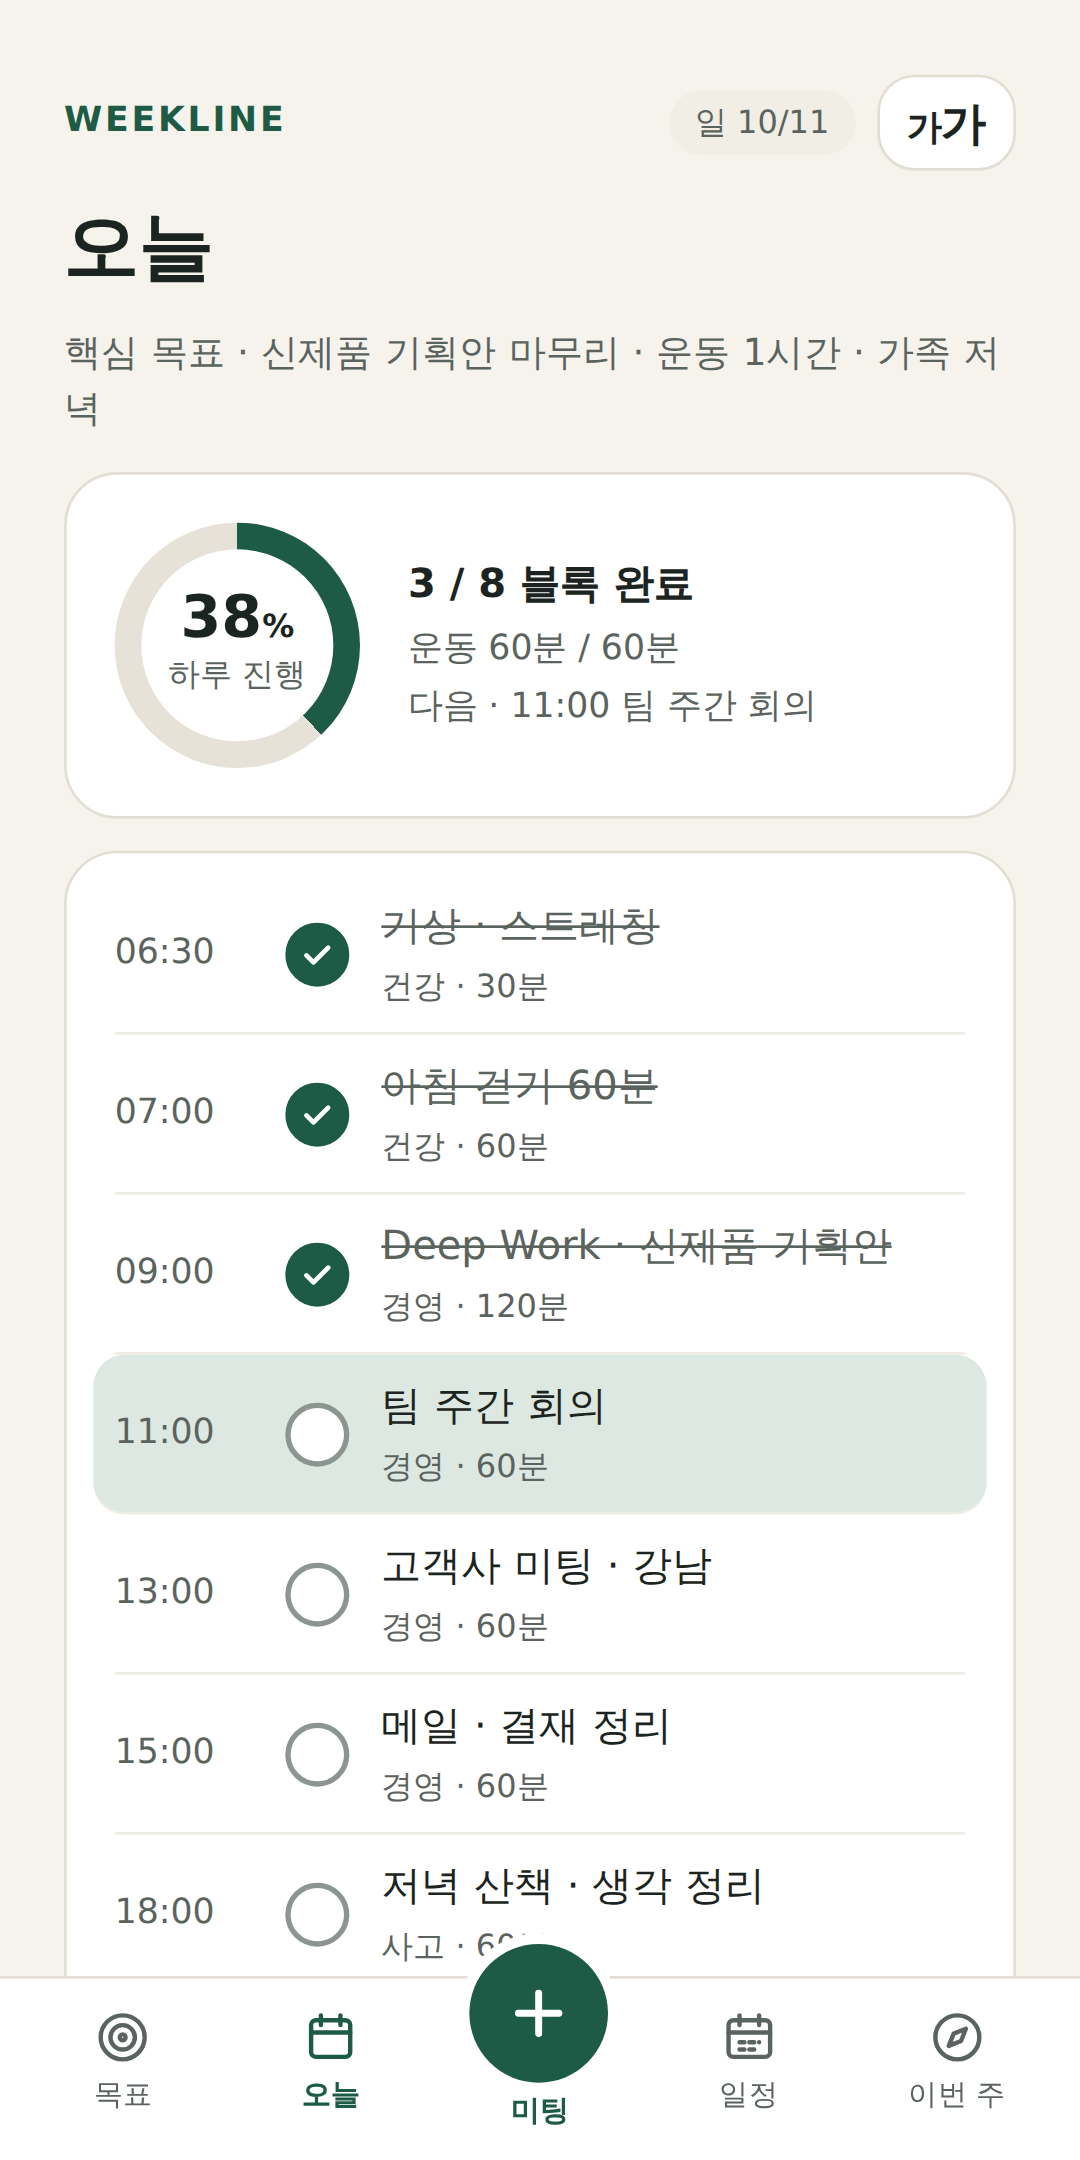
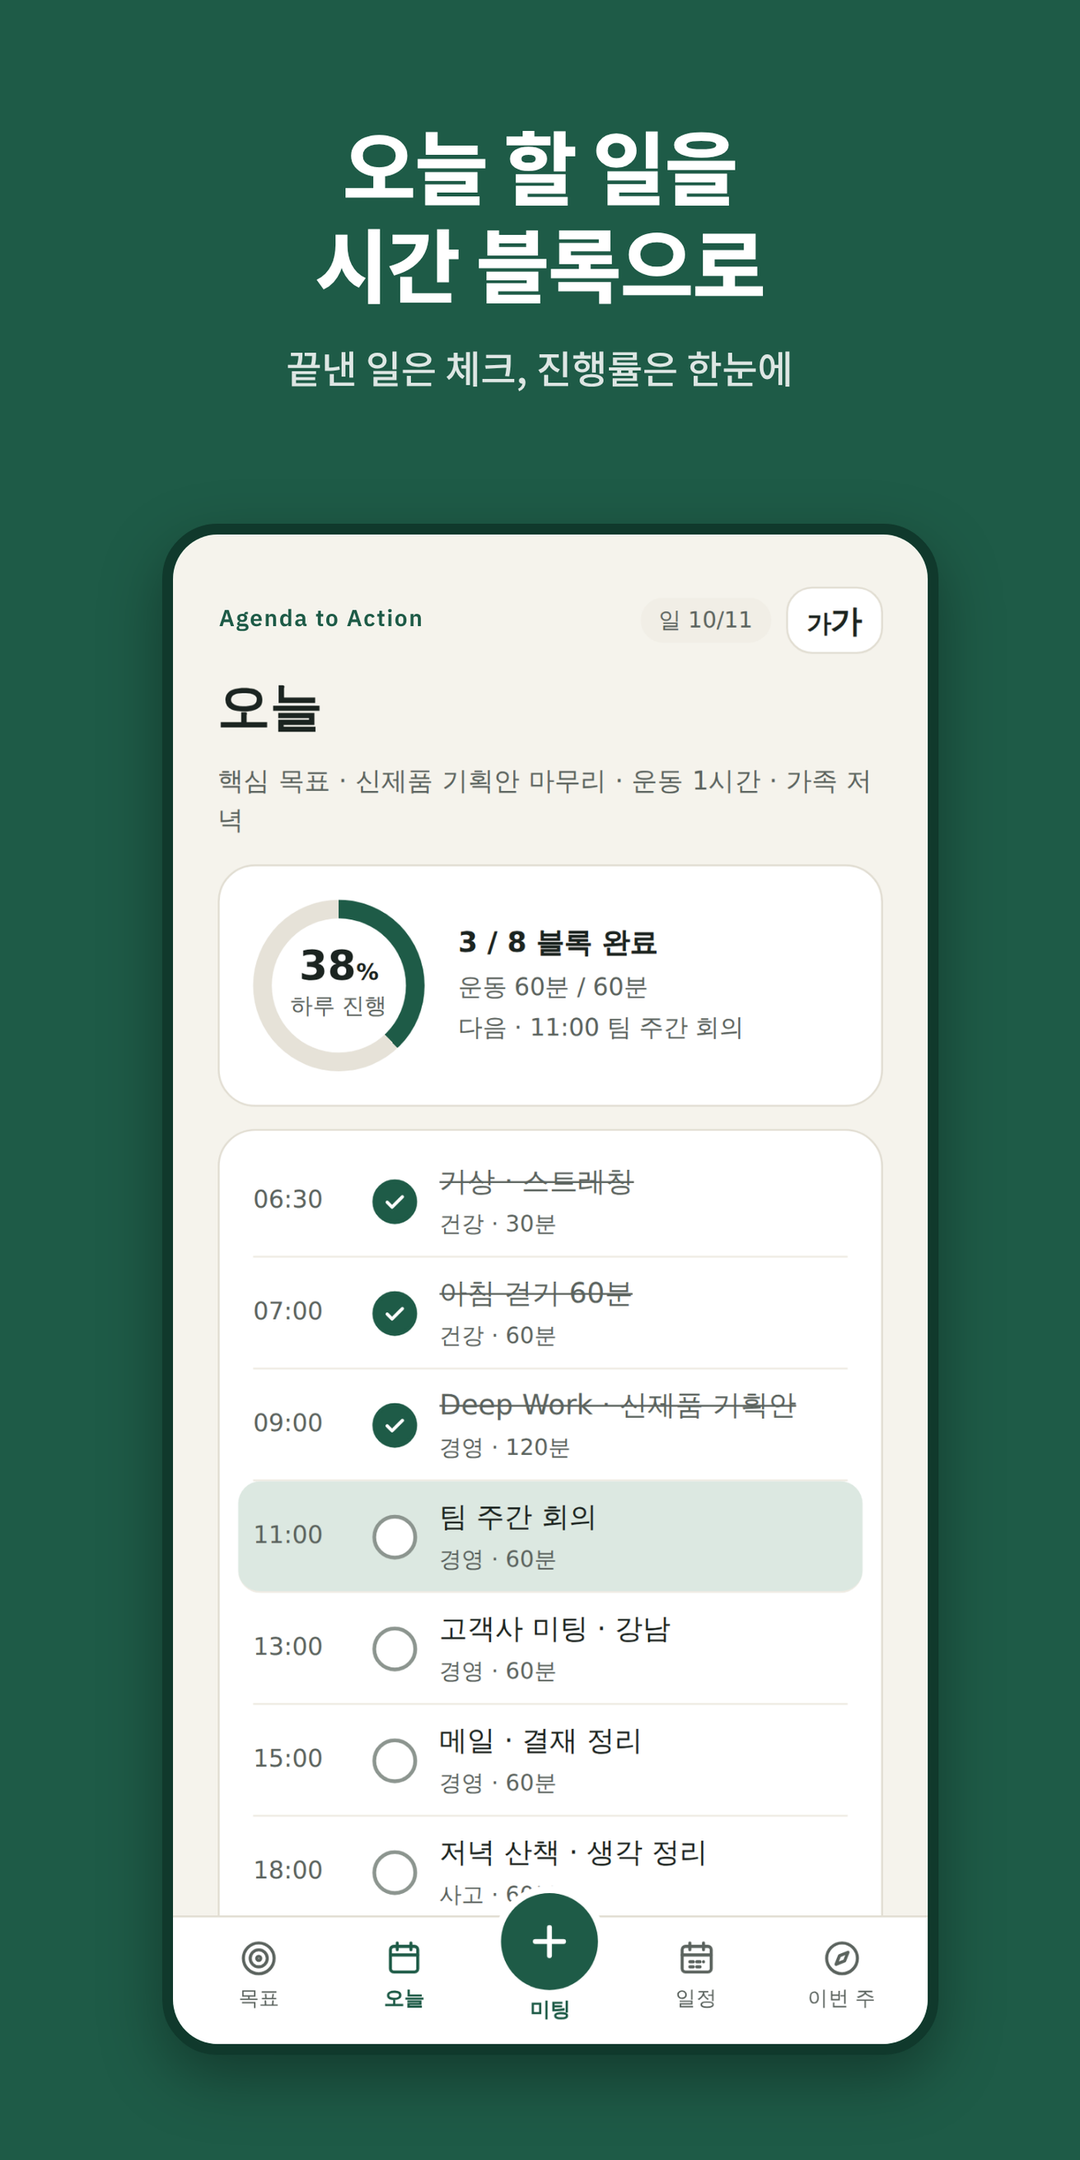
Android: rename app to Agenda to Action (same as iOS)
- build_www.py android renames in-app text like the iOS build; web PWA stays WEEKLINE
- launcher label AgendaAction, Settings paths updated
- Play listing title/description, feature graphic and screenshots use the new name

Claude-Session: https://claude.ai/code/session_01VEvnjwbbwXDKR2Z18MWHa4

diff --git a/app/resources/make-android-assets.js b/app/resources/make-android-assets.js
@@ -37,8 +37,8 @@ const DENS = { mdpi: 1, hdpi: 1.5, xhdpi: 2, xxhdpi: 3, xxxhdpi: 4 };
   await shot(512, 512, svg, path.join(PLAY, 'icon-512.png'));
   await shot(1024, 500, `<div style="width:100%;height:100%;background:#1E5B47;display:flex;align-items:center;gap:56px;padding:0 90px;box-sizing:border-box;font-family:'Noto Sans KR','Apple SD Gothic Neo',sans-serif;color:#F5F3EC">
       <div style="width:240px;height:240px;flex:none;border-radius:54px;overflow:hidden;box-shadow:0 0 0 6px #A9C9B8">${svg}</div>
-      <div><div style="font-size:84px;font-weight:800;letter-spacing:2px">WEEKLINE</div>
-      <div style="font-size:38px;margin-top:14px;opacity:.9">한 주를 한 줄로 · 큰 돌부터</div></div></div>`, path.join(PLAY, 'feature-1024x500.png'));
+      <div><div style="font-size:64px;font-weight:800;letter-spacing:1px;line-height:1.1">Agenda to Action</div>
+      <div style="font-size:38px;margin-top:14px;opacity:.9">목표·미팅 플래너</div></div></div>`, path.join(PLAY, 'feature-1024x500.png'));
   const www = path.join(__dirname, '..', 'www');
   if (fs.existsSync(path.join(www, 'index.html'))) {
     for (const [lang, file] of [['ko', 'index.html'], ['en', 'en/index.html']]) {

diff --git a/app/build_www.py b/app/build_www.py
@@ -7,11 +7,12 @@ Same app, plus what only a native app can do on a phone:
 """
 import pathlib, shutil, sys
 
-# `python3 build_www.py ios` builds the iPhone app, which is listed on the App Store as
-# "Agenda to Action" (the name WEEKLINE is taken there). Android and the web stay WEEKLINE.
-IOS = 'ios' in sys.argv[1:]
+# `python3 build_www.py ios` / `python3 build_www.py android` build the phone apps, which are listed
+# on the App Store and Google Play as "Agenda to Action" (the name WEEKLINE is taken on the App Store,
+# and Android follows so both stores match). The web PWA at the repo root stays WEEKLINE.
+IOS = bool({'ios', 'android'} & set(sys.argv[1:]))   # True = rename to Agenda to Action
 IOS_NAME = 'Agenda to Action'      # name shown inside the app
-IOS_HOME = 'AgendaAction'          # home-screen name (CFBundleDisplayName), used in Settings paths
+IOS_HOME = 'AgendaAction'          # home-screen / launcher name, used in Settings paths
 # kept as-is: backup files say app:'WEEKLINE' so they stay readable on every platform
 KEEP = ["app:'WEEKLINE'", "j.app!=='WEEKLINE'"]
 
@@ -20,6 +21,7 @@ def rename(s):
     if not IOS:
         return s
     s = s.replace('Settings › WEEKLINE', 'Settings › ' + IOS_HOME).replace('설정 › WEEKLINE', '설정 › ' + IOS_HOME)
+    s = s.replace('Apps › WEEKLINE', 'Apps › ' + IOS_HOME).replace('애플리케이션 › WEEKLINE', '애플리케이션 › ' + IOS_HOME)
     s = s.replace("<b>WEEKLINE PRO '", "<b>PRO '")
     for i, k in enumerate(KEEP):
         s = s.replace(k, f'@@KEEP{i}@@')

diff --git a/app/README.md b/app/README.md
@@ -29,7 +29,7 @@
 ```sh
 cd app
 npm ci
-python3 build_www.py
+python3 build_www.py android   # 안드로이드 (앱 이름 Agenda to Action), 아이폰은 ios
 npx cap sync
 ```
 
